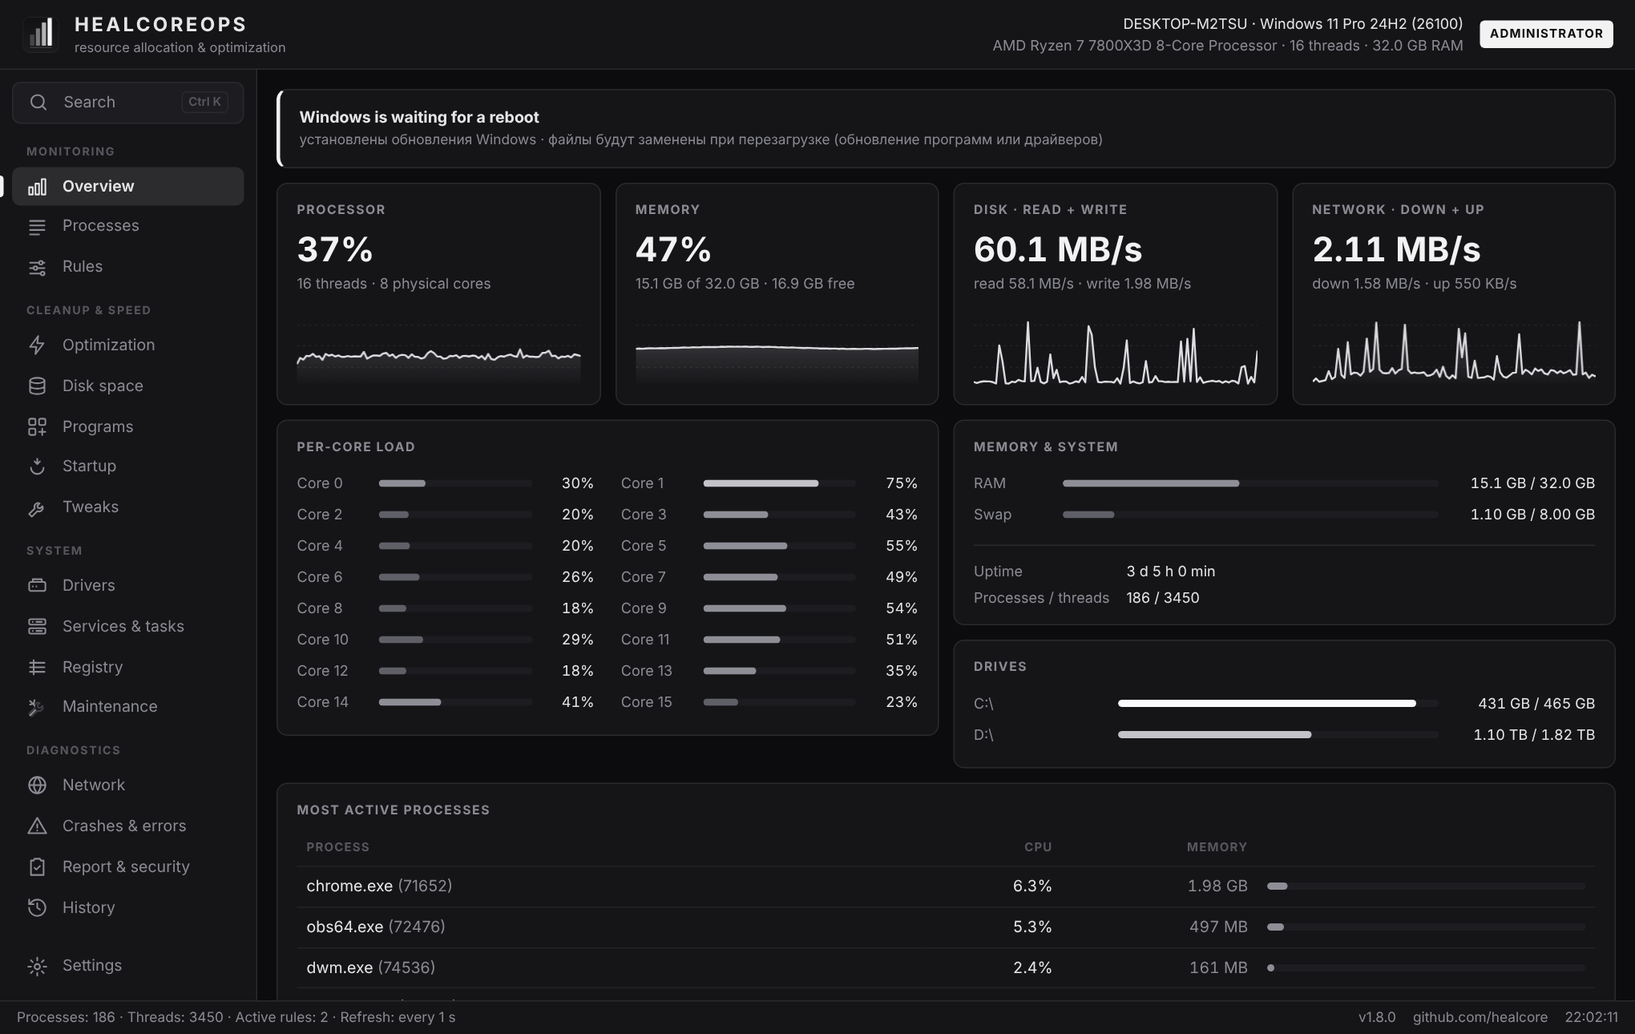
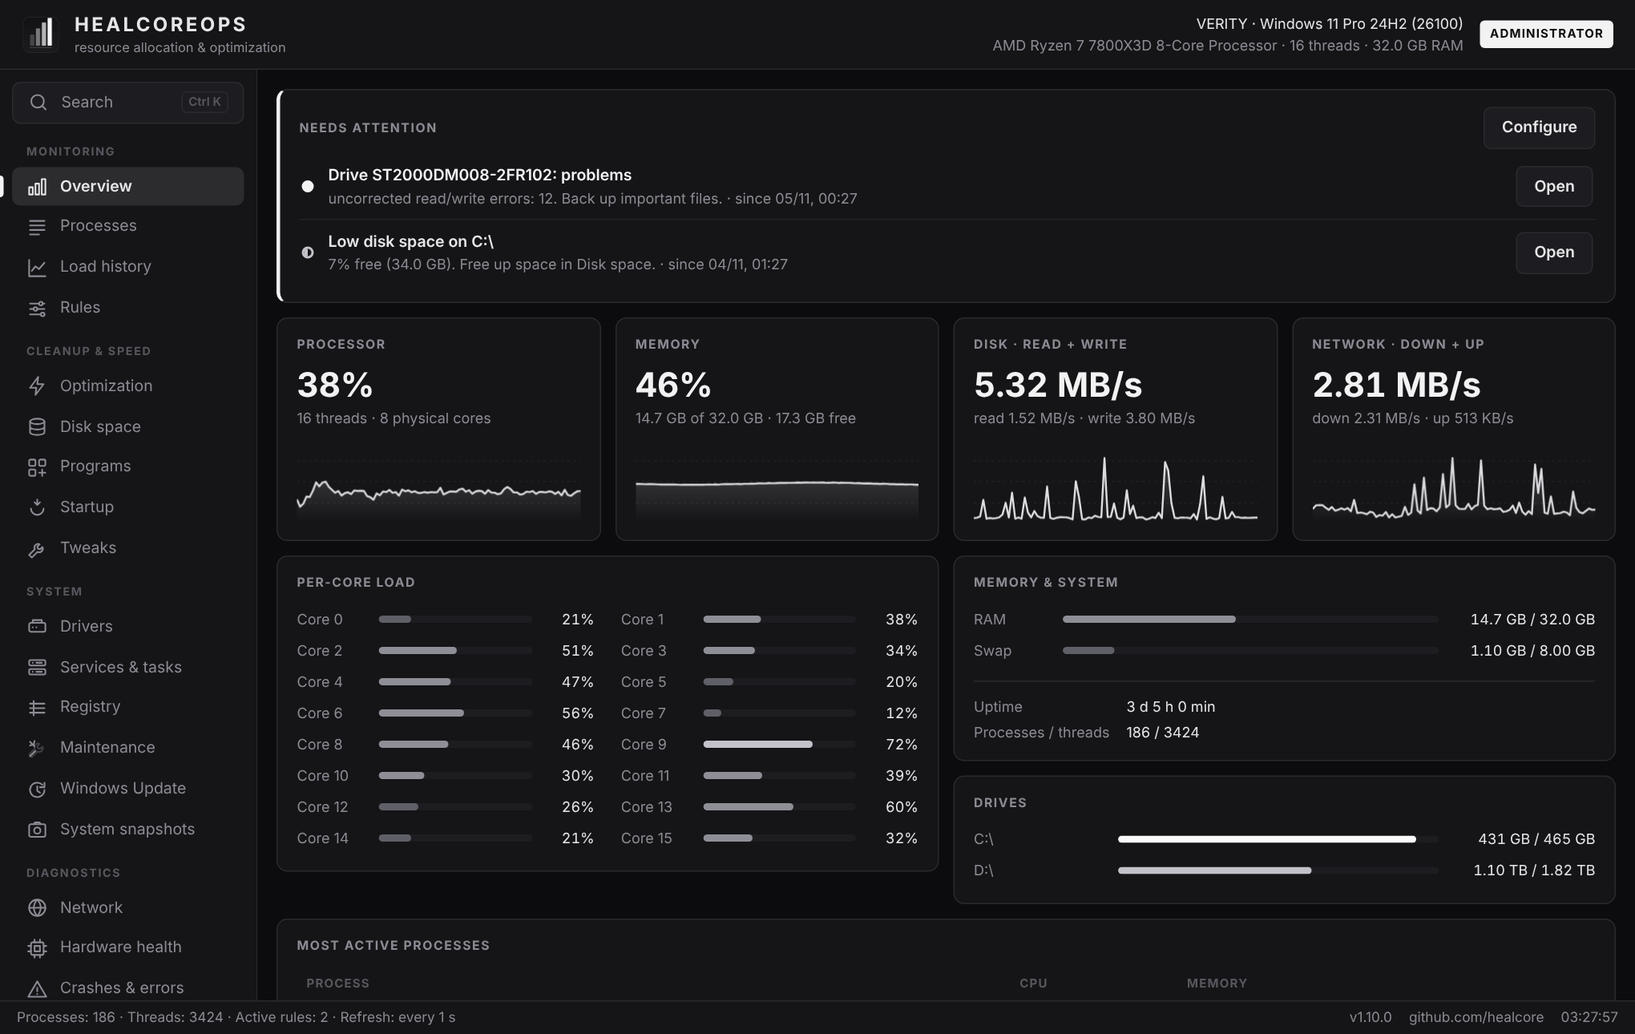
Docs: new screenshots and animations (v1.10.0), showcase and social preview; wider sidebar

diff --git a/internal/web/static/app.css b/internal/web/static/app.css
@@ -32,7 +32,7 @@ input, select, textarea { user-select: text; font: inherit; color: inherit; }
 .small { font-size: 11.5px; }
 .grow { flex: 1; min-width: 0; }
 
-.app { display: grid; grid-template: "top top" 58px "side main" 1fr "status status" 28px / 208px 1fr; height: 100vh; }
+.app { display: grid; grid-template: "top top" 58px "side main" 1fr "status status" 28px / 222px 1fr; height: 100vh; }
 
 /* Шапка */
 .top { grid-area: top; display: flex; align-items: center; justify-content: space-between; padding: 0 18px; background: var(--panel); border-bottom: 1px solid var(--border); }
@@ -432,3 +432,6 @@ kbd { font: 600 10px/1 "Segoe UI", system-ui, sans-serif; color: var(--dim); bor
 #nav .nav-mode svg { opacity: .7; }
 #nav .nav-mode:hover { color: var(--text); }
 .self-parts { margin-top: 8px; }
+/* пункты меню — в одну строку (жирный активный пункт не переносится) */
+.side button > span { white-space: nowrap; overflow: hidden; text-overflow: ellipsis; min-width: 0; }
+.side button { gap: 10px; }

diff --git a/README.md b/README.md
@@ -24,7 +24,7 @@
 
 <br>
 
-<img src="docs/assets/demo.gif" alt="Демонстрация HealCoreOps" width="100%">
+<img src="docs/assets/showcase.png" alt="HealCoreOps — обзор, история нагрузки, здоровье железа" width="100%">
 
 </div>
 
@@ -43,6 +43,11 @@
 - 🛠 **Для администраторов** — командная строка, тихая установка, политики в реестре, журнал событий для аудита.
 - ↩ **История изменений** — всё, что программа меняла, видно и откатывается.
 
+<div align="center">
+<img src="docs/assets/demo.gif" alt="HealCoreOps в работе" width="100%">
+<br><sub>Проверка ПК → здоровье железа → открытые порты и брандмауэр → дубликаты → поиск Ctrl+K</sub>
+</div>
+
 ## Установка
 
 1. Скачайте **[HealCoreOps-Setup.exe](https://github.com/healcore/healcoreops/releases/latest)** из последнего релиза.
@@ -50,8 +55,9 @@
 3. Для твиков и служб нажмите в окне **«Перезапустить от имени администратора»**.
 
 > [!NOTE]
-> Windows SmartScreen может предупредить о неизвестном издателе — exe пока не подписан сертификатом.
-> Нажмите «Подробнее» → «Выполнить в любом случае». Исходный код открыт, сборки делаются GitHub Actions из этого репозитория.
+> Windows SmartScreen может предупредить о неизвестном издателе — подпись релизов оформляется
+> ([как это устроено](docs/SIGNING.md)). Нажмите «Подробнее» → «Выполнить в любом случае».
+> Исходный код открыт, сборки делаются GitHub Actions из этого репозитория.
 
 Повторный запуск установщика обновляет программу с сохранением настроек.
 Удаление — «Параметры → Приложения → HealCoreOps».
@@ -70,13 +76,77 @@
 <td width="50%"><img src="docs/screenshots/checkup.png" alt="Проверка ПК"></td>
 </tr>
 <tr>
-<td><img src="docs/screenshots/disk.png" alt="Место на диске"></td>
+<td><img src="docs/assets/loadhist.gif" alt="История нагрузки"></td>
 <td valign="top">
 
-### 💽 Место на диске
-Самые большие папки и файлы с переходом вглубь, кэши браузеров, загрузки Центра обновления,
-временные файлы, отчёты об ошибках, кэш шейдеров. Системные папки защищены, удаление — в Корзину
-с откатом из «Истории». Можно настроить **автоочистку по расписанию**.
+### 📈 История нагрузки
+Процессор и память за 3 часа – 7 дней. Наведите на график — видно, **какие процессы нагружали ПК
+в эту минуту**; щелчок закрепляет момент. Ответ на вопрос «что тормозило вчера в 14:00».
+
+</td>
+</tr>
+<tr>
+<td valign="top">
+
+### 🌡 Здоровье железа
+SMART дисков — износ, температура, наработка, **неисправленные ошибки чтения/записи** с понятной
+оценкой и советом; износ и циклы батареи; температура, вентилятор и потребление видеокарт NVIDIA.
+Обновляется вживую, пока страница открыта.
+
+</td>
+<td><img src="docs/screenshots/hwhealth.png" alt="Здоровье железа"></td>
+</tr>
+<tr>
+<td><img src="docs/assets/drivers.gif" alt="Обновление драйверов"></td>
+<td valign="top">
+
+### 🚀 Драйверы
+Проверка в фоне — можно продолжать работу. NVIDIA — **с nvidia.com с проверкой цифровой подписи**,
+остальное — пакеты производителей из каталога Windows Update. Галочки, «Обновить выбранные»,
+«Обновить все»; прошивки BIOS программа не ставит.
+
+</td>
+</tr>
+<tr>
+<td valign="top">
+
+### 📸 Снимки системы
+Снимок «до» установки программы и сравнение с текущим состоянием: что добавилось в **программы,
+автозагрузку, службы, задачи планировщика, драйверы и открытые порты**. Видно всё, что принёс
+с собой установщик.
+
+</td>
+<td><img src="docs/assets/snapshots.gif" alt="Снимки системы"></td>
+</tr>
+<tr>
+<td><img src="docs/screenshots/duplicates.png" alt="Дубликаты"></td>
+<td valign="top">
+
+### 💽 Место на диске и дубликаты
+Самые большие папки и файлы, кэши, загрузки обновлений, временные файлы, **автоочистка по расписанию**.
+Поиск **одинаковых файлов по содержимому** (SHA-256). Удаление — только в Корзину, последнюю копию
+удалить нельзя, системные папки защищены.
+
+</td>
+</tr>
+<tr>
+<td valign="top">
+
+### 🌐 Сеть, порты и брандмауэр
+Проверка интернета, пинг, трассировка, проверка порта. **Подключения программ** с именами узлов и
+**открытые порты**: кому доступен порт, отметка портов удалённого доступа (RDP, SMB…) и проверка
+по правилам брандмауэра Windows.
+
+</td>
+<td><img src="docs/screenshots/ports.png" alt="Открытые порты"></td>
+</tr>
+<tr>
+<td><img src="docs/screenshots/windows-update.png" alt="Обновления Windows"></td>
+<td valign="top">
+
+### 🔄 Обновления Windows
+Доступные обновления с выборочной установкой и ходом по шагам, журнал установок
+**с расшифровкой кодов ошибок** (0x80070643 и др.), пауза на 7–35 дней с отменой из «Истории».
 
 </td>
 </tr>
@@ -107,7 +177,7 @@ WHEA_UNCORRECTABLE_ERROR → разгон/питание…), внезапные
 
 ### ↩ История изменений
 Всё, что программа меняла в системе, — с кнопкой «Отменить»: твики, автозагрузка, службы, задачи,
-питание, реестр, файлы в Корзине. Изменения из командной строки и по расписанию тоже здесь.
+питание, реестр, файлы в Корзине, пауза обновлений. Изменения из командной строки и по расписанию тоже здесь.
 
 </td>
 <td><img src="docs/screenshots/history.png" alt="История"></td>
@@ -117,12 +187,29 @@ WHEA_UNCORRECTABLE_ERROR → разгон/питание…), внезапные
 <td valign="top">
 
 ### 🛡 Отчёт и защита
-Антивирус, брандмауэр, BitLocker, обновления, UAC, Secure Boot, SMBv1, RDP;
-время загрузки Windows и что её замедляет; **отчёт о компьютере** в HTML и JSON — удобно отправить в техподдержку.
+Антивирус, брандмауэр, BitLocker, обновления, UAC, Secure Boot, SMBv1, RDP; время загрузки Windows;
+**отчёт о компьютере** в HTML и JSON, **инвентаризация** для парка и **пакет для поддержки** одним zip.
 
 </td>
 </tr>
 </table>
+
+<details>
+<summary><b>Ещё скриншоты</b></summary>
+
+<br>
+
+| | |
+|---|---|
+| <img src="docs/screenshots/overview.png" alt="Обзор"><br><sub>Обзор: живые графики и оповещения</sub> | <img src="docs/screenshots/simple-mode.png" alt="Простой режим"><br><sub>Простой режим — только главные разделы</sub> |
+| <img src="docs/screenshots/drivers.png" alt="Драйверы"><br><sub>Драйверы: найденные обновления</sub> | <img src="docs/screenshots/snapshots.png" alt="Снимки"><br><sub>Сравнение снимков системы</sub> |
+| <img src="docs/screenshots/connections.png" alt="Подключения"><br><sub>Подключения программ</sub> | <img src="docs/screenshots/loadhist.png" alt="История нагрузки"><br><sub>История нагрузки: кто грузил ПК</sub> |
+| <img src="docs/screenshots/programs.png" alt="Программы"><br><sub>Программы и остатки после удаления</sub> | <img src="docs/screenshots/services.png" alt="Службы"><br><sub>Службы и планировщик заданий</sub> |
+| <img src="docs/screenshots/autostart.png" alt="Автозагрузка"><br><sub>Автозагрузка и скорость загрузки</sub> | <img src="docs/screenshots/disk.png" alt="Место на диске"><br><sub>Мусор и кэши</sub> |
+| <img src="docs/screenshots/settings.png" alt="Настройки"><br><sub>Настройки и расход самой программы</sub> | <img src="docs/screenshots/palette.png" alt="Поиск"><br><sub>Поиск по всему приложению — Ctrl+K</sub> |
+| <img src="docs/screenshots/overview-light.png" alt="Светлая тема"><br><sub>Светлая тема</sub> | <img src="docs/screenshots/hwhealth-light.png" alt="Здоровье железа, светлая тема"><br><sub>Здоровье железа в светлой теме</sub> |
+
+</details>
 
 <details>
 <summary><b>Все разделы</b></summary>
@@ -159,8 +246,8 @@ WHEA_UNCORRECTABLE_ERROR → разгон/питание…), внезапные
 </details>
 
 <div align="center">
-<img src="docs/assets/theme.gif" alt="Тёмная и светлая темы" width="80%">
-<br><sub>Тёмная и светлая темы</sub>
+<img src="docs/assets/theme.gif" alt="Простой режим, все разделы, тёмная и светлая темы" width="80%">
+<br><sub>Простой режим ↔ все разделы, тёмная и светлая темы</sub>
 </div>
 
 ## Для системного администратора

diff --git a/README.en.md b/README.en.md
@@ -24,7 +24,7 @@
 
 <br>
 
-<img src="docs/screenshots/overview-en.png" alt="HealCoreOps overview" width="100%">
+<img src="docs/assets/showcase-en.png" alt="HealCoreOps — overview, load history, hardware health" width="100%">
 
 </div>
 
@@ -44,7 +44,10 @@ with all of that in a calm monochrome UI — and **every system change is record
 
 The interface is available in **English and Russian** (switch in Settings).
 
-<div align="center"><img src="docs/assets/demo.gif" alt="HealCoreOps demo" width="100%"></div>
+<div align="center">
+<img src="docs/assets/demo.gif" alt="HealCoreOps in action" width="100%">
+<br><sub>PC checkup → hardware health → open ports & firewall → duplicates → Ctrl+K search (Russian UI)</sub>
+</div>
 
 ## Installation
 
@@ -53,8 +56,9 @@ The interface is available in **English and Russian** (switch in Settings).
 3. For tweaks and services click **Restart as administrator** in the app.
 
 > [!NOTE]
-> Windows SmartScreen may warn about an unknown publisher — the exe isn't code-signed yet.
-> Click “More info” → “Run anyway”. The source is open and releases are built by GitHub Actions from this repository.
+> Windows SmartScreen may warn about an unknown publisher — release signing is being set up
+> ([how it works](docs/SIGNING.md)). Click “More info” → “Run anyway”.
+> The source is open and releases are built by GitHub Actions from this repository.
 
 Running the installer again updates the app and keeps your settings. Uninstall via Settings → Apps → HealCoreOps.
 
@@ -75,11 +79,34 @@ Running the installer again updates the app and keeps your settings. Uninstall v
 | **System snapshots** | Take a “before” snapshot and compare with now: what was added to programs, startup, services, tasks, drivers and open ports |
 | **Report & security** | Antivirus, firewall, BitLocker, updates, UAC, Secure Boot, SMBv1, RDP; boot time and what slows it; HTML/JSON computer report |
 | **History** | Every change with an Undo button, plus the action log |
+| **Simple mode** | New installs show only the essentials; all sections are one click (or Ctrl+K) away |
 | **Also** | Live overview, processes and priority rules, drivers from official sources, registry healer with `.reg` backups, maintenance (SFC, DISM, Winsock, DNS), **Ctrl+K** command palette, game mode, tray mode with quick actions, profile export/import, dark & light themes |
 
-<div align="center">
-<img src="docs/assets/theme.gif" alt="Dark and light themes" width="80%">
-</div>
+<table>
+<tr>
+<td width="50%"><img src="docs/assets/loadhist.gif" alt="Load history"><br><sub><b>Load history</b> — hover to see who loaded the PC</sub></td>
+<td width="50%"><img src="docs/assets/drivers.gif" alt="Driver updates"><br><sub><b>Drivers</b> — NVIDIA and the Windows Update catalog in the background</sub></td>
+</tr>
+<tr>
+<td><img src="docs/assets/snapshots.gif" alt="System snapshots"><br><sub><b>Snapshots</b> — what an installer brought with it</sub></td>
+<td><img src="docs/assets/theme.gif" alt="Simple mode and themes"><br><sub><b>Simple mode ↔ all sections</b>, dark and light themes</sub></td>
+</tr>
+</table>
+
+<details>
+<summary><b>More screenshots</b></summary>
+
+<br>
+
+| | |
+|---|---|
+| <img src="docs/screenshots/overview-en.png" alt="Overview"><br><sub>Overview in English</sub> | <img src="docs/screenshots/hwhealth.png" alt="Hardware health"><br><sub>Hardware health</sub> |
+| <img src="docs/screenshots/ports.png" alt="Open ports"><br><sub>Open ports and firewall check</sub> | <img src="docs/screenshots/windows-update.png" alt="Windows Update"><br><sub>Windows Update</sub> |
+| <img src="docs/screenshots/duplicates.png" alt="Duplicates"><br><sub>Duplicate files</sub> | <img src="docs/screenshots/checkup.png" alt="PC checkup"><br><sub>PC checkup</sub> |
+| <img src="docs/screenshots/crashes.png" alt="Crashes"><br><sub>Crashes & errors</sub> | <img src="docs/screenshots/tweaks.png" alt="Tweaks"><br><sub>Tweaks</sub> |
+| <img src="docs/screenshots/report.png" alt="Report"><br><sub>Report, inventory, support bundle</sub> | <img src="docs/screenshots/overview-light.png" alt="Light theme"><br><sub>Light theme</sub> |
+
+</details>
 
 ## For system administrators
 

diff --git a/CHANGELOG.md b/CHANGELOG.md
@@ -7,6 +7,8 @@
 - **Пакет для поддержки** — один zip для сообщения об ошибке: отчёт, инвентаризация, журналы, история изменений, настройки, последние фоновые операции. Путь к профилю и имя пользователя заменяются. Кнопка в «Отчёт и защита», поиск Ctrl+K и `--support-bundle [путь.zip]`.
 - **Подпись кода:** сборка в GitHub Actions подписывает релизы — через SignPath Foundation (бесплатно для открытых проектов) или своим сертификатом `.pfx`; программа и установщик подписываются по очереди. Инструкция — `docs/SIGNING.md`, политика подписи и приватности — `docs/CODE_SIGNING_POLICY.md`.
 - **Чек-лист тестирования** на реальных машинах — `docs/TESTING.md` и шаблон issue «Отчёт о тестировании».
+- Меню чуть шире: длинные пункты («Обновления Windows», «Снимки системы») не переносятся и не обрезаются, в том числе у выбранного пункта.
+- Новая графика для README: витрина, анимации истории нагрузки, драйверов, снимков системы и простого режима, обновлённые скриншоты всех разделов.
 
 ## 1.9.1
 
